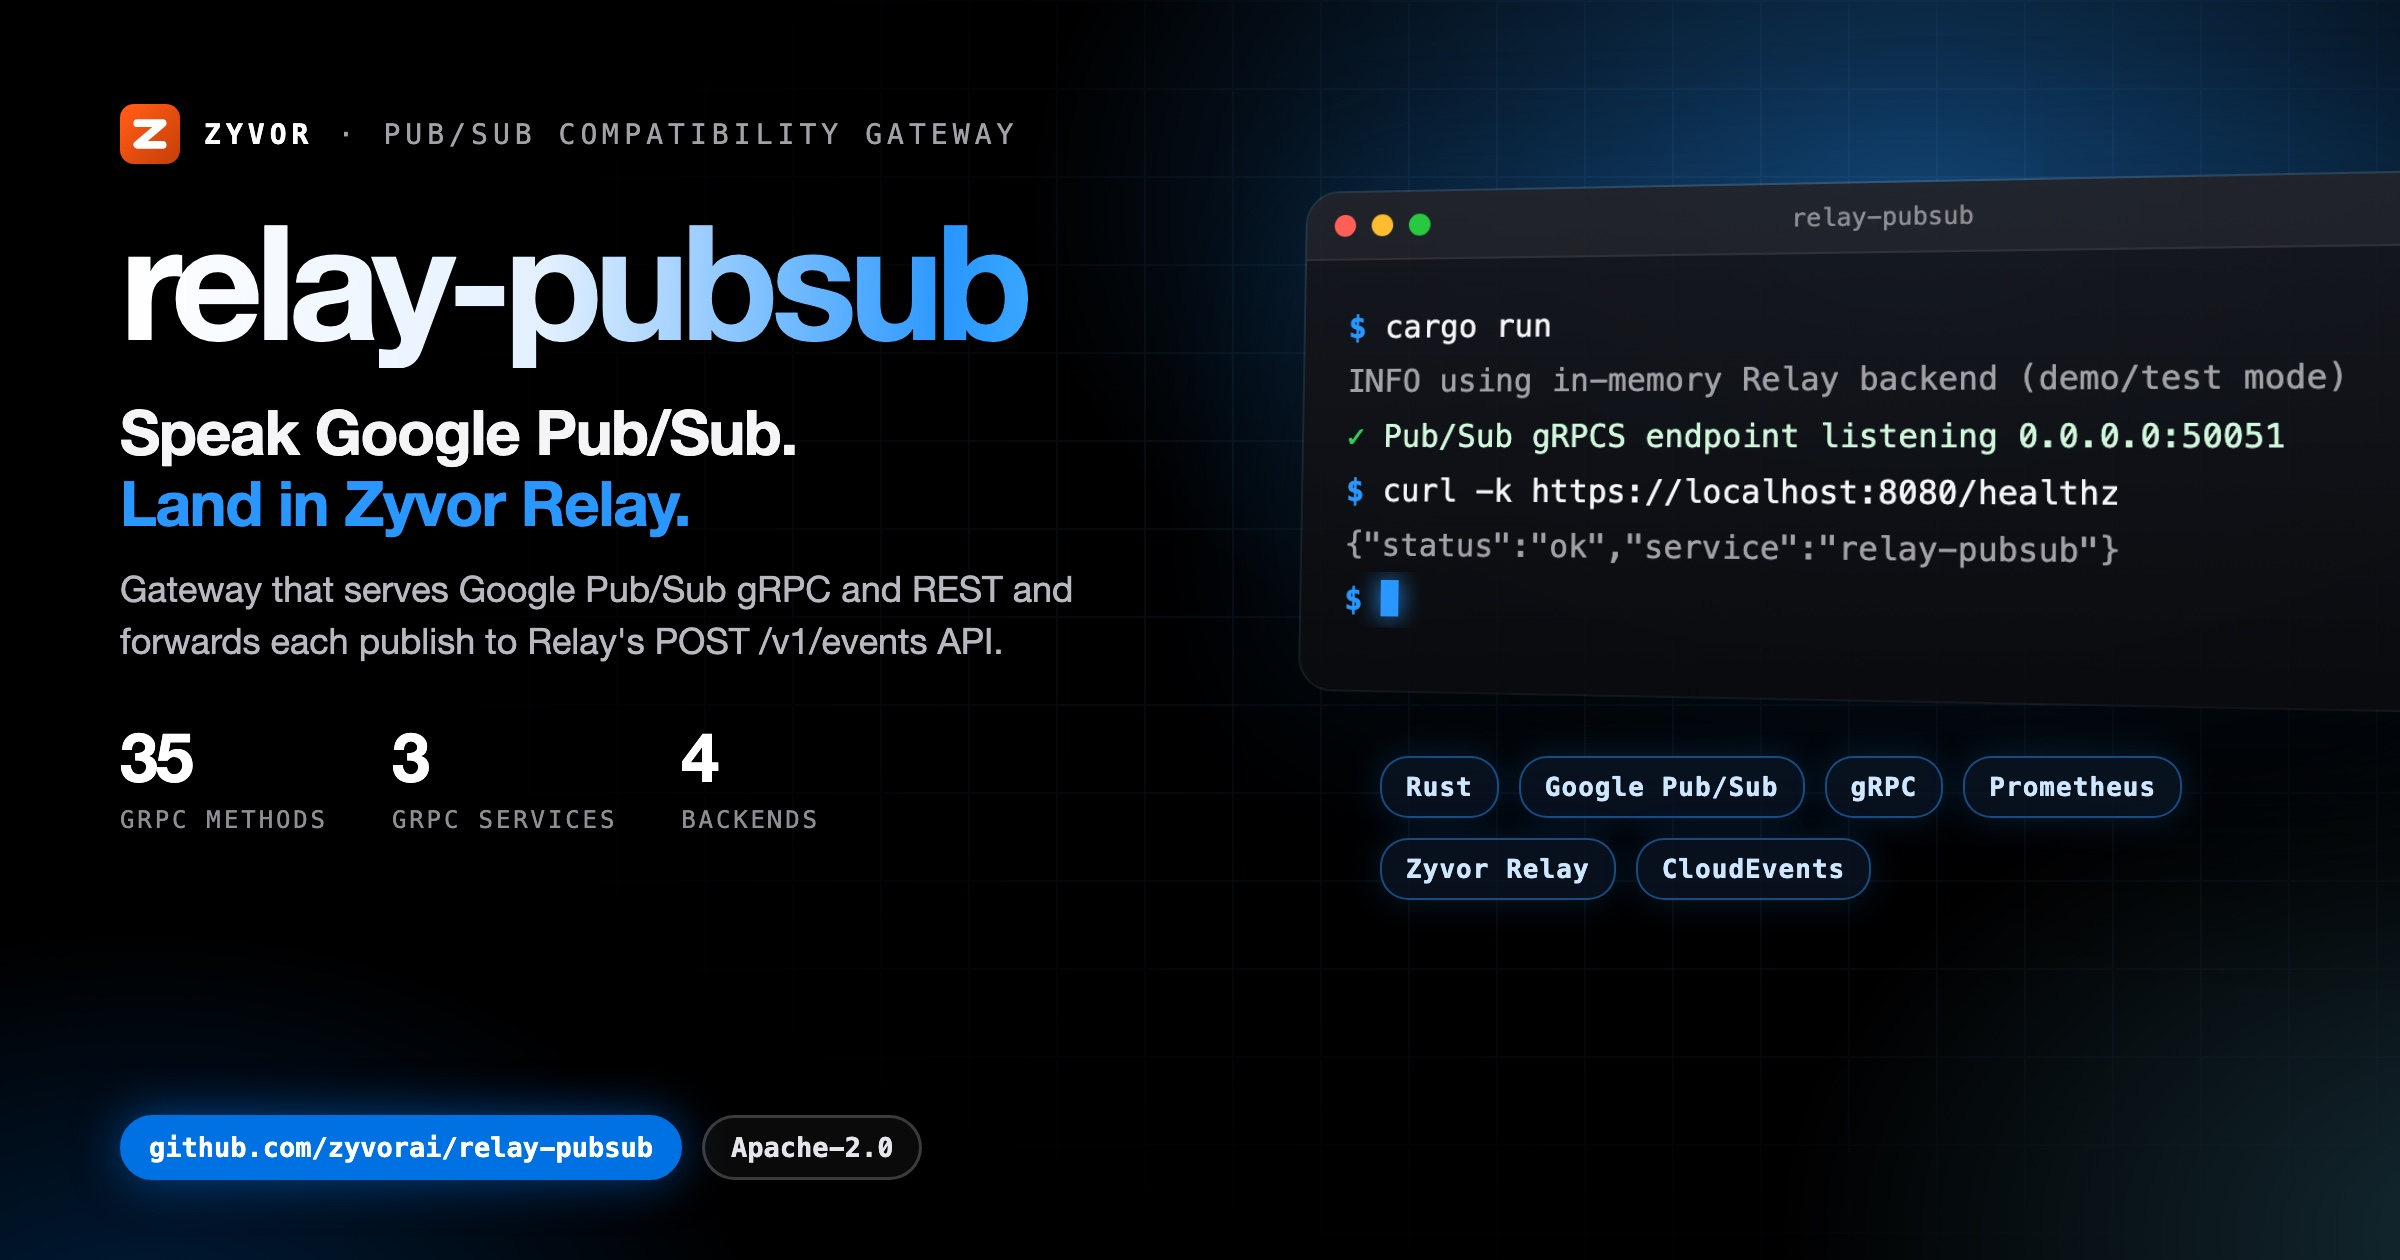
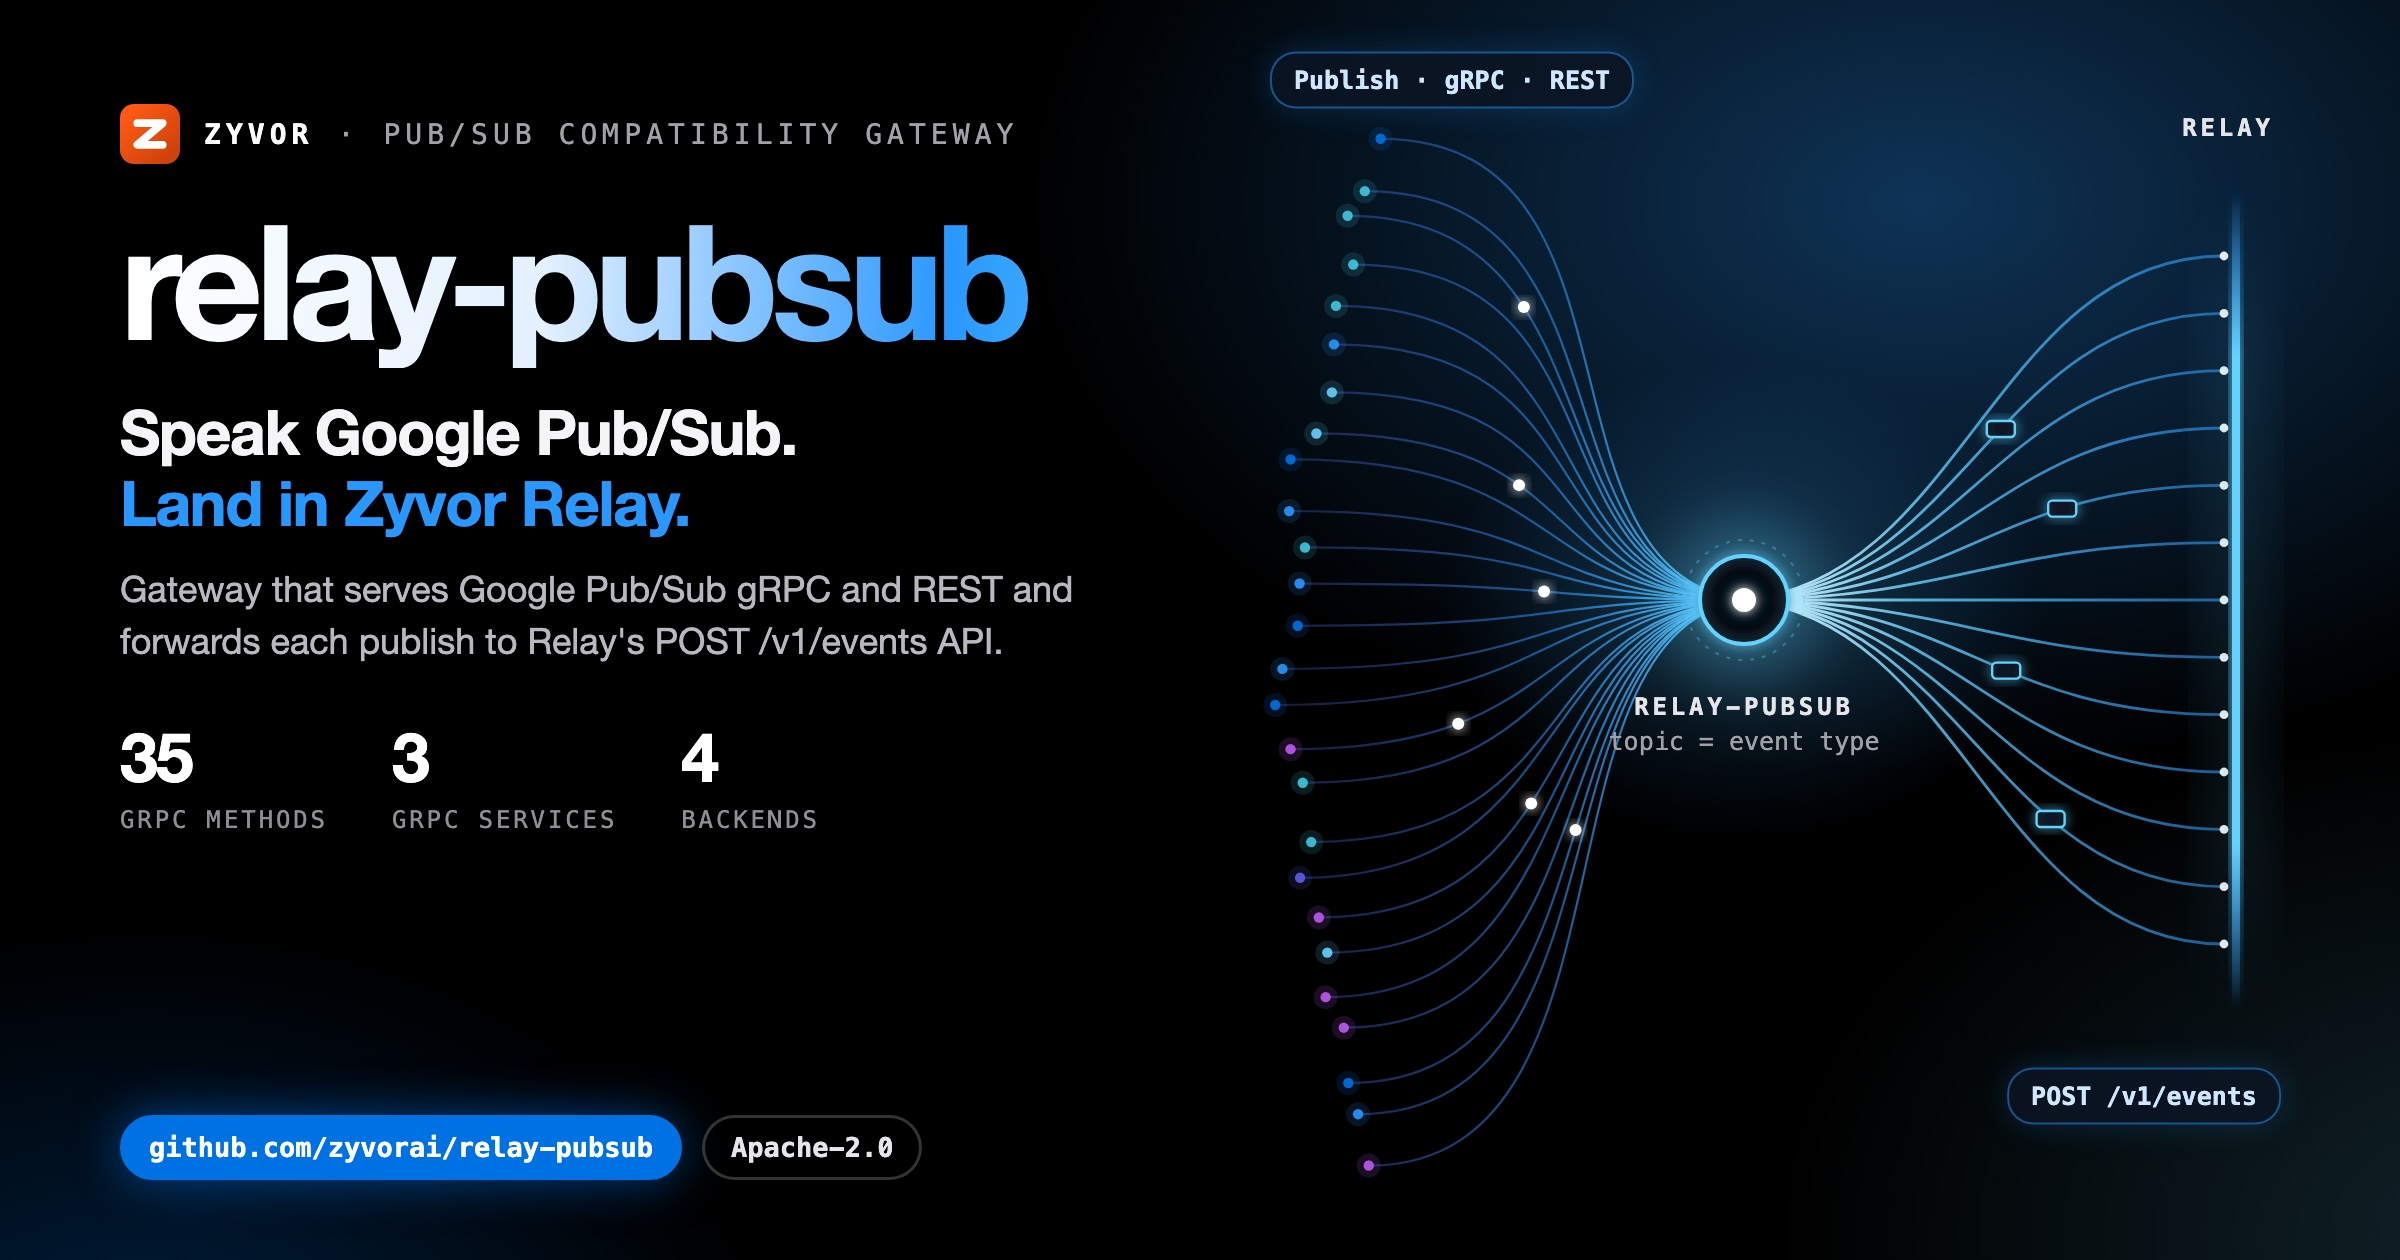
docs(social): unique illustrated hero card
Replace the shared terminal-window art with a motif drawn for this project;
same verified copy and stats on the left.

diff --git a/docs/social/relay-pubsub-hero-dark.html b/docs/social/relay-pubsub-hero-dark.html
@@ -8,58 +8,47 @@
   Build: ./docs/social/build-hero-dark.sh  ->  relay-pubsub-hero-dark.jpg (2400x1260)
 -->
 <style>
-  :root { --blue:#0071e3; --signal:#2997ff; --cyan:#64d2ff; --green:#30d158; --amber:#ff9f0a;
+  :root { --blue:#0071e3; --signal:#2997ff; --cyan:#64d2ff; --green:#30d158; --amber:#ff9f0a; --red:#ff453a; --violet:#bf5af2;
     --sans:'SF Pro Display','Helvetica Neue',Helvetica,Arial,sans-serif; --mono:'SF Mono',Menlo,Consolas,monospace; }
   * { box-sizing:border-box; }
   html,body { margin:0; padding:0; }
   body { width:1200px; height:630px; overflow:hidden; color:#f5f5f7; font-family:var(--sans); position:relative; background:#000; }
   .aurora { position:absolute; inset:0;
-    background:radial-gradient(720px 460px at 80% 16%, rgba(41,151,255,.40), transparent 62%),
-               radial-gradient(600px 420px at 104% 98%, rgba(100,210,255,.20), transparent 60%),
+    background:radial-gradient(720px 460px at 80% 16%, rgba(41,151,255,.34), transparent 62%),
+               radial-gradient(600px 420px at 104% 98%, rgba(100,210,255,.16), transparent 60%),
                radial-gradient(520px 380px at 6% 110%, rgba(0,113,227,.28), transparent 60%); }
-  .grid { position:absolute; inset:0; opacity:.09;
-    background-image:linear-gradient(rgba(120,180,255,.9) 1px,transparent 1px),linear-gradient(90deg,rgba(120,180,255,.9) 1px,transparent 1px);
-    background-size:44px 44px; -webkit-mask-image:radial-gradient(900px 520px at 72% 42%, #000 18%, transparent 75%); }
-  .left { position:absolute; left:60px; top:52px; width:560px; z-index:3; }
+  .copy { position:absolute; left:60px; top:52px; width:560px; z-index:3; }
   .brand { display:flex; align-items:center; gap:12px; font-family:var(--mono); font-size:14px; letter-spacing:.18em; text-transform:uppercase; color:#a1a1a6; }
   .brand b { color:#fff; }
   .word { margin:20px 0 0; font-size:80px; line-height:.95; font-weight:800; letter-spacing:-.05em; white-space:nowrap;
     background:linear-gradient(92deg,#fff 0%,#e3f0ff 38%,var(--signal) 74%,var(--cyan) 100%); -webkit-background-clip:text; background-clip:text; color:transparent; padding-bottom:6px; }
   .tag { margin:14px 0 0; font-size:31px; line-height:1.15; font-weight:700; letter-spacing:-.02em; }
   .tag em { font-style:normal; color:var(--signal); }
-  .lede { margin:12px 0 0; font-size:18px; line-height:1.45; color:#b8b8bf; width:520px; }
+  .lede { margin:12px 0 0; font-size:18px; line-height:1.45; color:#b8b8bf; width:520px; text-shadow:0 1px 12px #000; }
   .stats { margin-top:24px; display:flex; gap:32px; }
   .stat b { display:block; font-size:34px; font-weight:800; letter-spacing:-.03em; color:#fff; }
   .stat span { font-family:var(--mono); font-size:12px; letter-spacing:.12em; text-transform:uppercase; color:#8e8e93; }
   .pill { position:absolute; left:60px; bottom:40px; display:flex; gap:10px; z-index:3; }
-  .pill span { font-family:var(--mono); font-size:13.5px; font-weight:700; padding:7px 13px; border-radius:18px; border:1.5px solid rgba(255,255,255,.2); color:#e5e5ea; background:rgba(255,255,255,.04); }
+  .pill span { font-family:var(--mono); font-size:13.5px; font-weight:700; padding:7px 13px; border-radius:18px; border:1.5px solid rgba(255,255,255,.2); color:#e5e5ea; background:rgba(0,0,0,.6); }
   .pill span.b { background:var(--blue); border-color:var(--blue); color:#fff; box-shadow:0 0 24px rgba(0,113,227,.55); }
-
-  .right { position:absolute; left:652px; top:96px; width:560px; z-index:2; }
-  .win { position:relative; width:560px; border-radius:16px; overflow:hidden; z-index:2;
-    background:linear-gradient(180deg, rgba(22,24,30,.94), rgba(10,11,14,.96));
-    box-shadow:0 50px 100px rgba(0,0,0,.75), 0 0 0 1px rgba(255,255,255,.14), 0 0 90px rgba(41,151,255,.22);
-    transform:perspective(1600px) rotateY(-14deg) rotateX(4deg); transform-origin:left center; }
-  .bar { height:34px; display:flex; align-items:center; gap:8px; padding:0 14px; background:rgba(255,255,255,.05); border-bottom:1px solid rgba(255,255,255,.07); }
-  .bar i { width:11px; height:11px; border-radius:50%; background:#ff5f57; } .bar i:nth-child(2){background:#febc2e} .bar i:nth-child(3){background:#28c840}
-  .bar em { margin-left:auto; margin-right:auto; font-style:normal; font-family:var(--mono); font-size:12px; color:#8e8e93; transform:translateX(-24px); }
-  .term { min-height:214px; padding:20px 22px 24px; font-family:var(--mono); font-size:15.5px; line-height:1.75; }
-  .l { white-space:pre; overflow:hidden; text-overflow:ellipsis; color:#f5f5f7; }
-  .l .p { color:var(--signal); font-weight:700; }
-  .l.out { color:#a1a1a6; }
-  .l.cm { color:#6e6e73; }
-  .l.ok { color:#d1f7dc; } .l.ok span { color:var(--green); font-weight:700; }
-  .l.warn { color:#ffe1b0; } .l.warn span { color:var(--amber); font-weight:700; }
-  .cur { display:inline-block; width:9px; height:18px; background:var(--signal); vertical-align:-3px; box-shadow:0 0 12px var(--signal); }
-  .chips { margin:34px 0 0 38px; width:480px; display:flex; flex-wrap:wrap; gap:10px; position:relative; z-index:3; }
-  .chips span { font-family:var(--mono); font-size:13px; font-weight:700; letter-spacing:.04em; padding:7px 12px; border-radius:14px;
-    color:#cfe6ff; background:rgba(10,20,35,.82); border:1px solid rgba(41,151,255,.45); box-shadow:0 0 18px rgba(41,151,255,.18); }
+  .art { position:absolute; left:520px; top:0; width:680px; height:630px; z-index:2; }
+  .art svg { display:block; }
+  #labels { position:absolute; inset:0; z-index:4; pointer-events:none; }
+  .lbl { position:absolute; font-family:var(--mono); font-size:12.5px; color:#a1a1a6; text-align:center; transform:translate(-50%,-50%); white-space:nowrap; }
+  .lbl b { display:block; font-size:12px; letter-spacing:.16em; text-transform:uppercase; color:#e5e5ea; }
+  .lbl span { display:block; margin-top:3px; }
+  .lbl.box { padding:7px 12px; border-radius:12px; background:rgba(8,10,14,.85); border:1px solid rgba(255,255,255,.14); }
+  .lbl.chip { padding:6px 11px; border-radius:13px; font-size:12.5px; font-weight:700; color:#cfe6ff; background:rgba(10,20,35,.85); border:1px solid rgba(41,151,255,.5); box-shadow:0 0 16px rgba(41,151,255,.2); }
+  .lbl.left { transform:translate(0,-50%); text-align:left; }
+  .lbl.right { transform:translate(-100%,-50%); text-align:right; }
+  .ok { color:var(--green) !important; } .warn { color:var(--amber) !important; } .bad { color:var(--red) !important; } .sig { color:var(--signal) !important; } .cy { color:var(--cyan) !important; } .vi { color:var(--violet) !important; }
 </style>
 </head>
 <body>
 <div class="aurora"></div>
-<div class="grid"></div>
-<div class="left">
+<div class="art"><svg id="art" width="680" height="630" viewBox="0 0 680 630" xmlns="http://www.w3.org/2000/svg"></svg></div>
+<div id="labels"></div>
+<div class="copy">
   <div class="brand"><svg viewBox="0 0 64 64" width="30" height="30" aria-hidden="true"><defs><linearGradient id="zb" x1="8" y1="8" x2="56" y2="56" gradientUnits="userSpaceOnUse"><stop offset="0" stop-color="#ff5a15"/><stop offset="1" stop-color="#cc420a"/></linearGradient></defs><rect width="64" height="64" rx="15" fill="url(#zb)"/><path d="M18.5,20.5 45.5,20.5 18.5,43.5 45.5,43.5" fill="none" stroke="#fff" stroke-width="8.3" stroke-linecap="round" stroke-linejoin="round"/></svg><b>Zyvor</b><span>&middot;</span><span>Pub/Sub compatibility gateway</span></div>
   <div class="word">relay-pubsub</div>
   <div class="tag">Speak Google Pub/Sub.<br><em>Land in Zyvor Relay.</em></div>
@@ -67,8 +56,80 @@
   <div class="stats"><div class="stat"><b>35</b><span>gRPC methods</span></div><div class="stat"><b>3</b><span>gRPC services</span></div><div class="stat"><b>4</b><span>backends</span></div></div>
 </div>
 <div class="pill"><span class="b">github.com/zyvorai/relay-pubsub</span><span>Apache-2.0</span></div>
-<div class="right"><div class="win"><div class="bar"><i></i><i></i><i></i><em>relay-pubsub</em></div>
-<div class="term"><div class="l"><span class="p">$</span> cargo run</div><div class="l out">INFO using in-memory Relay backend (demo/test mode)</div><div class="l ok"><span>&#10003;</span> Pub/Sub gRPCS endpoint listening 0.0.0.0:50051</div><div class="l"><span class="p">$</span> curl -k https://localhost:8080/healthz</div><div class="l out">{&quot;status&quot;:&quot;ok&quot;,&quot;service&quot;:&quot;relay-pubsub&quot;}</div><div class="l"><span class="p">$</span> <i class="cur"></i></div></div></div>
-<div class="chips"><span>Rust</span><span>Google Pub/Sub</span><span>gRPC</span><span>Prometheus</span><span>Zyvor Relay</span><span>CloudEvents</span></div></div>
+<script>
+var Z = (function () {
+  var NS = 'http://www.w3.org/2000/svg', svg = document.getElementById('art'), labels = document.getElementById('labels');
+  var seed = 20261004;
+  function rnd() { seed = (seed * 1103515245 + 12345) % 2147483648; return seed / 2147483648; }
+  function el(tag, a, parent) { var n = document.createElementNS(NS, tag); for (var k in a) n.setAttribute(k, a[k]); (parent || svg).appendChild(n); return n; }
+  function g(attrs) { return el('g', attrs || {}); }
+  function label(x, y, inner, cls, style) { var d = document.createElement('div'); d.className = 'lbl ' + (cls || ''); d.style.left = (520 + x) + 'px'; d.style.top = y + 'px'; if (style) d.setAttribute('style', d.getAttribute('style') + ';' + style); d.innerHTML = inner; labels.appendChild(d); return d; }
+  return { NS: NS, svg: svg, W: 680, H: 630, rnd: rnd, el: el, g: g, label: label,
+    reseed: function (s) { seed = s; },
+    c: { blue: '#0071e3', signal: '#2997ff', cyan: '#64d2ff', green: '#30d158', amber: '#ff9f0a', red: '#ff453a', violet: '#bf5af2', teal: '#40c8e0', indigo: '#5e5ce6', pink: '#ff375f', white: '#f5f5f7', grey: '#8e8e93' } };
+})();
+(function () {
+// relay-pubsub: bow-tie of lines. Many Pub/Sub publishers converge through the gateway knot and leave as ordered event lanes into Relay.
+var C = Z.c, kx = 352, ky = 300;
+var defs = Z.el('defs', {});
+defs.innerHTML = '<filter id="rp-gl" x="-50%" y="-50%" width="200%" height="200%"><feGaussianBlur stdDeviation="3" result="b"/><feMerge><feMergeNode in="b"/><feMergeNode in="SourceGraphic"/></feMerge></filter>' +
+  '<filter id="rp-sf" x="-50%" y="-50%" width="200%" height="200%"><feGaussianBlur stdDeviation="14"/></filter>' +
+  '<linearGradient id="rp-in" gradientUnits="userSpaceOnUse" x1="110" y1="0" x2="' + kx + '" y2="0"><stop offset="0" stop-color="#5e5ce6" stop-opacity=".25"/><stop offset=".6" stop-color="#2997ff" stop-opacity=".55"/><stop offset="1" stop-color="#64d2ff" stop-opacity="1"/></linearGradient>' +
+  '<linearGradient id="rp-out" gradientUnits="userSpaceOnUse" x1="' + kx + '" y1="0" x2="600" y2="0"><stop offset="0" stop-color="#ffffff" stop-opacity="1"/><stop offset=".35" stop-color="#64d2ff" stop-opacity=".8"/><stop offset="1" stop-color="#2997ff" stop-opacity=".55"/></linearGradient>' +
+  '<radialGradient id="rp-halo"><stop offset="0" stop-color="#64d2ff" stop-opacity=".7"/><stop offset="1" stop-color="#2997ff" stop-opacity="0"/></radialGradient>' +
+  '<linearGradient id="rp-bar" x1="0" y1="0" x2="0" y2="1"><stop offset="0" stop-color="#2997ff" stop-opacity="0"/><stop offset=".2" stop-color="#64d2ff"/><stop offset=".8" stop-color="#64d2ff"/><stop offset="1" stop-color="#2997ff" stop-opacity="0"/></linearGradient>';
+
+var hues = [C.signal, C.cyan, C.indigo, C.teal, C.blue, C.violet];
+Z.el('ellipse', { cx: kx, cy: ky, rx: 150, ry: 120, fill: 'url(#rp-halo)', opacity: .35 });
+
+// inbound: many publishers on a loose arc, converging to the knot
+var NI = 26, inPaths = [];
+for (var i = 0; i < NI; i++) {
+  var t = i / (NI - 1), y = 72 + t * 506 + (Z.rnd() - .5) * 10;
+  var x = 116 + 46 * Math.pow(Math.abs(t - .5) * 2, 1.6) + Z.rnd() * 14;
+  var d = 'M' + x.toFixed(1) + ',' + y.toFixed(1) + ' C' + (x + 140).toFixed(1) + ',' + y.toFixed(1) + ' ' + (kx - 110) + ',' + (ky + (y - ky) * .06).toFixed(1) + ' ' + kx + ',' + ky;
+  var p = Z.el('path', { d: d, fill: 'none', stroke: 'url(#rp-in)', 'stroke-width': 1.1 });
+  inPaths.push(p);
+  var h = hues[Math.floor(Z.rnd() * hues.length)];
+  Z.el('circle', { cx: x, cy: y, r: 6, fill: h, opacity: .14 });
+  Z.el('circle', { cx: x, cy: y, r: 2.6, fill: h, opacity: .9 });
+}
+
+// outbound: ordered lanes fanning to Relay
+var NO = 13, bx = 598, outPaths = [];
+for (var j = 0; j < NO; j++) {
+  var y2 = 128 + j * (344 / (NO - 1));
+  var d2 = 'M' + kx + ',' + ky + ' C' + (kx + 110) + ',' + (ky + (y2 - ky) * .06).toFixed(1) + ' ' + (bx - 120) + ',' + y2.toFixed(1) + ' ' + (bx - 6) + ',' + y2.toFixed(1);
+  outPaths.push(Z.el('path', { d: d2, fill: 'none', stroke: 'url(#rp-out)', 'stroke-width': 1.4 }));
+  Z.el('circle', { cx: bx - 6, cy: y2, r: 2.2, fill: '#fff', opacity: .9 });
+}
+
+// message pulses
+[2, 7, 11, 15, 19, 23].forEach(function (k, n) {
+  var p = inPaths[k], L = p.getTotalLength(), pt = p.getPointAtLength(L * (0.35 + 0.1 * (n % 3)));
+  Z.el('circle', { cx: pt.x, cy: pt.y, r: 3, fill: '#fff', filter: 'url(#rp-gl)' });
+});
+[1, 4, 8, 11].forEach(function (k, n) {
+  var p = outPaths[k], L = p.getTotalLength(), pt = p.getPointAtLength(L * (0.55 + 0.12 * (n % 2)));
+  var g = Z.g({ transform: 'translate(' + pt.x.toFixed(1) + ',' + pt.y.toFixed(1) + ')', filter: 'url(#rp-gl)' });
+  Z.el('rect', { x: -7, y: -4, width: 14, height: 8, rx: 2, fill: 'rgba(8,14,26,.95)', stroke: C.cyan, 'stroke-width': 1.2 }, g);
+});
+
+// Relay intake bar
+Z.el('rect', { x: bx - 2, y: 96, width: 4, height: 408, rx: 2, fill: 'url(#rp-bar)', filter: 'url(#rp-gl)' });
+Z.el('rect', { x: bx - 12, y: 96, width: 24, height: 408, fill: 'url(#rp-bar)', opacity: .12, filter: 'url(#rp-sf)' });
+
+// knot: the gateway
+Z.el('circle', { cx: kx, cy: ky, r: 40, fill: C.cyan, opacity: .25, filter: 'url(#rp-sf)' });
+Z.el('circle', { cx: kx, cy: ky, r: 22, fill: 'rgba(6,10,18,.92)', stroke: C.cyan, 'stroke-width': 2, filter: 'url(#rp-gl)' });
+Z.el('circle', { cx: kx, cy: ky, r: 30, fill: 'none', stroke: 'rgba(100,210,255,.35)', 'stroke-dasharray': '2 4' });
+Z.el('circle', { cx: kx, cy: ky, r: 6, fill: '#fff', filter: 'url(#rp-gl)' });
+
+Z.label(kx, ky + 62, '<b>relay-pubsub</b><span>topic = event type</span>');
+Z.label(206, 40, 'Publish &middot; gRPC &middot; REST', 'chip');
+Z.label(bx - 4, 64, '<b>Relay</b>');
+Z.label(bx - 46, 548, 'POST /v1/events', 'chip');
+})();
+</script>
 </body>
 </html>
